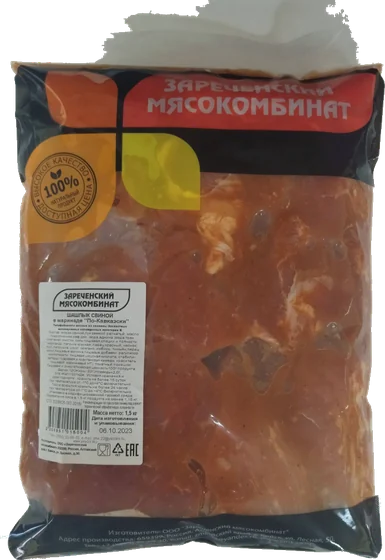
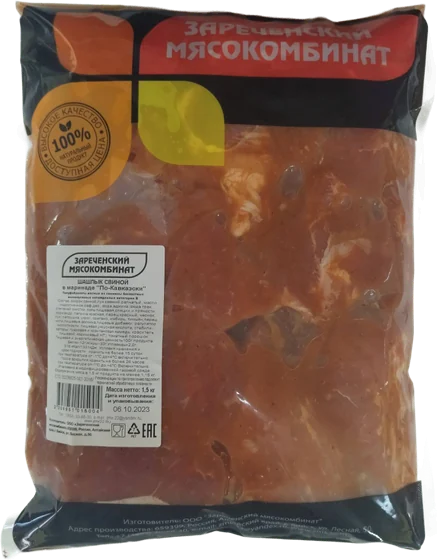
Показ: чистые вырезки 7 товаров Зареченского, «Подарки» грузятся быстрее
- Фарш, шашлык по-кавказски, стейк, рёбрышки, купаты, рулет, свинина рождественская перевырезаны нейросетью
  (Lucida / BiRefNet): ровный контур, плёнка целая, без серых пятен и белых зубцов
- «Подарки»: в плитках первого экрана маленькие копии картинок (img/thumbs) вместо полных 800–1400 px,
  у главного фото Алтая размытое превью, пока оно грузится

diff --git a/src/entities/partner/model/partners.data.js b/src/entities/partner/model/partners.data.js
@@ -4,7 +4,7 @@
 /** @type {import("./types").Partner[]} */
 export const PARTNERS = [
   {"slug": "salnikov", "title": "Сальников", "company": "Компания «Сальников»", "logos": [{"src": "/img/partners/logos/salnikov-1.svg", "w": 502, "h": 196}], "about": ["Компания «Сальников» больше 20 лет делает замороженные полуфабрикаты в Сибири и на Алтае. Главное для неё — высокое качество, вкус и удобство приготовления.", "«Классические мини» и «Классические стандарт» — пельмени категории А из говядины и свинины. «МЯСшарики» — маленькие пельмени с нежным сливочным вкусом, их любят и взрослые, и дети. «Домашние» сделаны по ГОСТу, в них много сочной начинки из натурального мяса."], "facts": [{"value": "20+", "label": "лет на рынке Сибири и Алтая"}], "site": "https://pelmeni-salnikov.ru/catalog", "hero": "93996", "products": [{"key": "93995", "title": "Пельмени «МЯСшарики»", "weight": "900 г", "img": {"src": "/img/partners/salnikov/93995.webp", "w": 452, "h": 560}, "isNew": false, "photo": false}, {"key": "100509509", "title": "Пельмени «Классические Standart»", "weight": "800 г", "img": {"src": "/img/partners/salnikov/100509509.webp", "w": 372, "h": 560}, "isNew": false, "photo": false}, {"key": "93996", "title": "Пельмени «Домашние» по ГОСТу", "weight": "800 г", "img": {"src": "/img/partners/salnikov/93996.webp", "w": 303, "h": 450}, "isNew": false, "photo": false}, {"key": "100362041", "title": "Пельмени «Классические mini»", "weight": "800 г", "img": {"src": "/img/partners/salnikov/100362041.webp", "w": 371, "h": 560}, "isNew": false, "photo": false}]},
-  {"slug": "zarechensky", "title": "Зареченский мясокомбинат", "company": "ООО «Зареченский мясокомбинат»", "logos": [{"src": "/img/partners/logos/zarechensky-1.svg", "w": 325, "h": 101}], "about": ["«Зареченский мясокомбинат» открылся в Бийске весной 2015 года. Здесь разделывают свинину и говядину и делают из них полуфабрикаты — до 20 тонн мяса в день. Мясо от костей отделяют вручную.", "Основа ассортимента — охлаждённое мясо, которое не замораживали. Сырьё берут только у сибирских хозяйств. Из него делают фарши, шашлык, маринованную свинину, купаты «Зареченские» и мясо в пакетах для запекания."], "facts": [{"value": "2015", "label": "год основания"}, {"value": "до 20 т", "label": "мяса в день"}, {"value": "Бийск", "label": "Алтайский край"}], "site": "https://zmk22.ru/", "hero": "54112", "products": [{"key": "56845", "title": "Фарш из свинины", "weight": "", "img": {"src": "/img/partners/zarechensky/56845.webp", "w": 439, "h": 560}, "isNew": false, "photo": false}, {"key": "51605", "title": "Фарш из свинины и говядины", "weight": "", "img": {"src": "/img/partners/zarechensky/51605.webp", "w": 437, "h": 560}, "isNew": false, "photo": false}, {"key": "38626", "title": "Шашлык из свинины", "weight": "около 1,5 кг, весовой", "img": {"src": "/img/partners/zarechensky/38626.webp", "w": 436, "h": 560}, "isNew": false, "photo": false}, {"key": "45827", "title": "Шашлык свиной по-кавказски в маринаде", "weight": "1,5 кг", "img": {"src": "/img/partners/zarechensky/45827.webp", "w": 385, "h": 560}, "isNew": false, "photo": false}, {"key": "54664", "title": "Стейк из свинины на косточке в маринаде", "weight": "около 1 кг, весовой", "img": {"src": "/img/partners/zarechensky/54664.webp", "w": 441, "h": 560}, "isNew": false, "photo": false}, {"key": "47367", "title": "Рёбрышки свиные в маринаде", "weight": "", "img": {"src": "/img/partners/zarechensky/47367.webp", "w": 444, "h": 494}, "isNew": false, "photo": false}, {"key": "30276", "title": "Рулька свиная маринованная", "weight": "", "img": {"src": "/img/partners/zarechensky/30276.webp", "w": 420, "h": 560}, "isNew": false, "photo": true}, {"key": "52986", "title": "Рябчик свиной маринованный", "weight": "", "img": {"src": "/img/partners/zarechensky/52986.webp", "w": 458, "h": 560}, "isNew": false, "photo": true}, {"key": "54112", "title": "Свинина в чесночном соусе", "weight": "1 кг", "img": {"src": "/img/partners/zarechensky/54112.webp", "w": 418, "h": 560}, "isNew": false, "photo": false}, {"key": "100549554", "title": "Купаты «Зареченские»", "weight": "0,75 кг или 1,5 кг", "img": {"src": "/img/partners/zarechensky/100549554.webp", "w": 428, "h": 560}, "isNew": false, "photo": false}, {"key": "100549555", "title": "Колбаски «Барбекю»", "weight": "0,75 кг или 1,5 кг", "img": {"src": "/img/partners/zarechensky/100549555.webp", "w": 441, "h": 560}, "isNew": false, "photo": false}, {"key": "100554231", "title": "Рулет из шейки с брусникой", "weight": "0,8 кг", "img": {"src": "/img/partners/zarechensky/100554231.webp", "w": 464, "h": 560}, "isNew": false, "photo": false}, {"key": "39762", "title": "Свинина рождественская с можжевеловыми ягодами", "weight": "", "img": {"src": "/img/partners/zarechensky/39762.webp", "w": 460, "h": 560}, "isNew": false, "photo": false}]},
+  {"slug": "zarechensky", "title": "Зареченский мясокомбинат", "company": "ООО «Зареченский мясокомбинат»", "logos": [{"src": "/img/partners/logos/zarechensky-1.svg", "w": 325, "h": 101}], "about": ["«Зареченский мясокомбинат» открылся в Бийске весной 2015 года. Здесь разделывают свинину и говядину и делают из них полуфабрикаты — до 20 тонн мяса в день. Мясо от костей отделяют вручную.", "Основа ассортимента — охлаждённое мясо, которое не замораживали. Сырьё берут только у сибирских хозяйств. Из него делают фарши, шашлык, маринованную свинину, купаты «Зареченские» и мясо в пакетах для запекания."], "facts": [{"value": "2015", "label": "год основания"}, {"value": "до 20 т", "label": "мяса в день"}, {"value": "Бийск", "label": "Алтайский край"}], "site": "https://zmk22.ru/", "hero": "54112", "products": [{"key": "56845", "title": "Фарш из свинины", "weight": "", "img": {"src": "/img/partners/zarechensky/56845.webp", "w": 439, "h": 560}, "isNew": false, "photo": false}, {"key": "51605", "title": "Фарш из свинины и говядины", "weight": "", "img": {"src": "/img/partners/zarechensky/51605.webp", "w": 432, "h": 560}, "isNew": false, "photo": false}, {"key": "38626", "title": "Шашлык из свинины", "weight": "около 1,5 кг, весовой", "img": {"src": "/img/partners/zarechensky/38626.webp", "w": 436, "h": 560}, "isNew": false, "photo": false}, {"key": "45827", "title": "Шашлык свиной по-кавказски в маринаде", "weight": "1,5 кг", "img": {"src": "/img/partners/zarechensky/45827.webp", "w": 437, "h": 560}, "isNew": false, "photo": false}, {"key": "54664", "title": "Стейк из свинины на косточке в маринаде", "weight": "около 1 кг, весовой", "img": {"src": "/img/partners/zarechensky/54664.webp", "w": 418, "h": 560}, "isNew": false, "photo": false}, {"key": "47367", "title": "Рёбрышки свиные в маринаде", "weight": "", "img": {"src": "/img/partners/zarechensky/47367.webp", "w": 462, "h": 560}, "isNew": false, "photo": false}, {"key": "30276", "title": "Рулька свиная маринованная", "weight": "", "img": {"src": "/img/partners/zarechensky/30276.webp", "w": 420, "h": 560}, "isNew": false, "photo": true}, {"key": "52986", "title": "Рябчик свиной маринованный", "weight": "", "img": {"src": "/img/partners/zarechensky/52986.webp", "w": 458, "h": 560}, "isNew": false, "photo": true}, {"key": "54112", "title": "Свинина в чесночном соусе", "weight": "1 кг", "img": {"src": "/img/partners/zarechensky/54112.webp", "w": 418, "h": 560}, "isNew": false, "photo": false}, {"key": "100549554", "title": "Купаты «Зареченские»", "weight": "0,75 кг или 1,5 кг", "img": {"src": "/img/partners/zarechensky/100549554.webp", "w": 443, "h": 560}, "isNew": false, "photo": false}, {"key": "100549555", "title": "Колбаски «Барбекю»", "weight": "0,75 кг или 1,5 кг", "img": {"src": "/img/partners/zarechensky/100549555.webp", "w": 441, "h": 560}, "isNew": false, "photo": false}, {"key": "100554231", "title": "Рулет из шейки с брусникой", "weight": "0,8 кг", "img": {"src": "/img/partners/zarechensky/100554231.webp", "w": 436, "h": 560}, "isNew": false, "photo": false}, {"key": "39762", "title": "Свинина рождественская с можжевеловыми ягодами", "weight": "", "img": {"src": "/img/partners/zarechensky/39762.webp", "w": 438, "h": 560}, "isNew": false, "photo": false}]},
   {"slug": "prostokvashino", "title": "Простоквашино", "company": "«Логика молока»", "logos": [{"src": "/img/partners/logos/prostokvashino-1.svg", "w": 115, "h": 110}], "about": ["В портфель компании «Логика молока» входят «Простоквашино», «Даниссимо», «Актибио», «Растишка», «Актимуно» и другие марки: молоко, йогурты, творожки и десерты для всей семьи на каждый день.", "«Простоквашино» — молочные продукты для завтрака, домашних блюд и повседневного рациона всей семьи."], "facts": [], "site": null, "hero": "83641", "products": [{"key": "83641", "title": "Молоко отборное 3,4–4,5 %", "weight": "930 мл", "img": {"src": "/img/partners/prostokvashino/83641.webp", "w": 199, "h": 560}, "isNew": false, "photo": false}, {"key": "83631", "title": "Кефир 2,5 %", "weight": "", "img": {"src": "/img/partners/prostokvashino/83631.webp", "w": 199, "h": 560}, "isNew": false, "photo": false}, {"key": "100581308", "title": "Ряженка 3,2 %", "weight": "900 г", "img": {"src": "/img/partners/prostokvashino/100581308.webp", "w": 218, "h": 560}, "isNew": false, "photo": false}, {"key": "100567827", "title": "Ряженка «Топлёное лакомство» со вкусом ванили 6 %", "weight": "150 г", "img": {"src": "/img/partners/prostokvashino/100567827.webp", "w": 560, "h": 345}, "isNew": false, "photo": false}, {"key": "100559134", "title": "Сметана 10 %", "weight": "300 г", "img": {"src": "/img/partners/prostokvashino/100559134.webp", "w": 438, "h": 560}, "isNew": false, "photo": false}, {"key": "100577842", "title": "Сметана безлактозная 15 %", "weight": "260 г", "img": {"src": "/img/partners/prostokvashino/100577842.webp", "w": 462, "h": 560}, "isNew": false, "photo": false}, {"key": "100559141", "title": "Творог 5 %", "weight": "200 г", "img": {"src": "/img/partners/prostokvashino/100559141.webp", "w": 378, "h": 560}, "isNew": false, "photo": false}, {"key": "100566689", "title": "Сливки питьевые 10 %", "weight": "205 г", "img": {"src": "/img/partners/prostokvashino/100566689.webp", "w": 227, "h": 560}, "isNew": false, "photo": false}]},
   {"slug": "spk", "title": "СПК", "company": "Сибирская продовольственная компания", "logos": [{"src": "/img/partners/logos/spk-1.svg", "w": 1279, "h": 1356}], "about": ["«Сибирская продовольственная компания» начиналась в 1994 году в Новосибирске с небольшого цеха. Сегодня у неё заводы в Новосибирске и Красноярске и филиал в Барнауле, а колбасы и деликатесы продаются в 49 регионах России.", "Под маркой СПК выпускают колбасы, сосиски, ветчину, мясные деликатесы и сыры на каждый день. «Высокий вкус» — линейка колбас и сыров, её делают с 2015 года. Ещё у компании есть сосиски «Большая SOSиска»."], "facts": [{"value": "1994", "label": "год основания"}, {"value": "до 300 т", "label": "продукции в сутки"}, {"value": "400+", "label": "наименований продукции"}], "site": "https://spkfood.ru/", "hero": "89205", "products": [{"key": "89205", "title": "Колбаса «Докторская» варёная", "weight": "470 г", "img": {"src": "/img/partners/spk/89205.webp", "w": 560, "h": 401}, "isNew": false, "photo": false}, {"key": "servelat-orehovyy", "title": "Сервелат «Ореховый» «Высокий вкус»", "weight": "250 г", "img": {"src": "/img/partners/spk/servelat-orehovyy.webp", "w": 560, "h": 332}, "isNew": false, "photo": false}, {"key": "servelat-balykovyy", "title": "Сервелат «Балыковый» «Высокий вкус»", "weight": "250 г", "img": {"src": "/img/partners/spk/servelat-balykovyy.webp", "w": 560, "h": 380}, "isNew": false, "photo": false}, {"key": "155713", "title": "Колбаса «Докторская» в обвязке", "weight": "500 г", "img": {"src": "/img/partners/spk/155713.webp", "w": 238, "h": 560}, "isNew": false, "photo": false}, {"key": "100568903", "title": "Колбаса «Краковская» полукопчёная", "weight": "390 г", "img": {"src": "/img/partners/spk/100568903.webp", "w": 560, "h": 355}, "isNew": false, "photo": false}, {"key": "100563164", "title": "Колбаса «Деревенская» с чесночком и сальцем", "weight": "390 г", "img": {"src": "/img/partners/spk/100563164.webp", "w": 294, "h": 560}, "isNew": false, "photo": false}, {"key": "79611", "title": "Колбаса «Новосибирская» сырокопчёная", "weight": "235 г", "img": {"src": "/img/partners/spk/79611.webp", "w": 111, "h": 560}, "isNew": false, "photo": false}, {"key": "107373", "title": "Сосиски «Большая SOSиска»", "weight": "340 г", "img": {"src": "/img/partners/spk/107373.webp", "w": 380, "h": 560}, "isNew": false, "photo": false}, {"key": "65152", "title": "Карбонад «Юбилейный» копчёно-варёный", "weight": "весовой", "img": {"src": "/img/partners/spk/65152.webp", "w": 514, "h": 560}, "isNew": false, "photo": false}, {"key": "42308", "title": "Ветчина куриная рубленая", "weight": "весовой", "img": {"src": "/img/partners/spk/42308.webp", "w": 560, "h": 238}, "isNew": false, "photo": false}]},
   {"slug": "pomidorka", "title": "Помидорка и 6 соток", "company": "Компания «Круз»", "logos": [{"src": "/img/partners/logos/pomidorka-1.webp", "w": 640, "h": 602}, {"src": "/img/partners/logos/pomidorka-2.webp", "w": 640, "h": 457}], "about": ["Марки «Помидорка» и «6 соток» принадлежат московской компании «Десан» (ООО «Круз»). Компания работает 30 лет, у двух её марок 50 видов продукции.", "«Помидорка» продаётся с 1998 года: это томатная паста в банках, стекле, тюбиках и пакетиках, кетчупы, соусы и лечо. Под маркой «6 соток» выпускают маринованные огурчики и корнишоны, зелёный горошек, сладкую кукурузу, фасоль и овощную икру."], "facts": [{"value": "1998", "label": "«Помидорка» в продаже"}, {"value": "30 лет", "label": "компании «Десан»"}, {"value": "50", "label": "видов продукции"}], "site": "https://pomidorka.ru/", "hero": "61308", "products": [{"key": "61308", "title": "Томатная паста «Помидорка»", "weight": "250 г", "img": {"src": "/img/partners/pomidorka/61308.webp", "w": 340, "h": 560}, "isNew": false, "photo": false}, {"key": "92150", "title": "Томатная паста «Помидорка»", "weight": "480 г", "img": {"src": "/img/partners/pomidorka/92150.webp", "w": 314, "h": 560}, "isNew": false, "photo": false}, {"key": "100576777", "title": "Кетчуп «Томатный» «Помидорка»", "weight": "350 г", "img": {"src": "/img/partners/pomidorka/100576777.webp", "w": 338, "h": 560}, "isNew": false, "photo": false}, {"key": "100579846", "title": "Кетчуп «Для шашлыка» «Помидорка»", "weight": "350 г", "img": {"src": "/img/partners/pomidorka/100579846.webp", "w": 344, "h": 560}, "isNew": false, "photo": false}, {"key": "100577438", "title": "Соус «Краснодарский» «Помидорка»", "weight": "480 мл", "img": {"src": "/img/partners/pomidorka/100577438.webp", "w": 318, "h": 560}, "isNew": false, "photo": false}, {"key": "pasta-chesnok", "title": "Томатная паста «Помидорка» с чесноком и травами", "weight": "250 мл", "img": {"src": "/img/partners/pomidorka/pasta-chesnok.webp", "w": 375, "h": 560}, "isNew": true, "photo": false}, {"key": "100577439", "title": "Огурчики хрустящие «6 соток»", "weight": "720 мл", "img": {"src": "/img/partners/pomidorka/100577439.webp", "w": 343, "h": 560}, "isNew": false, "photo": false}, {"key": "ogurcy-solenye", "title": "Огурцы солёные «6 соток»", "weight": "720 мл", "img": {"src": "/img/partners/pomidorka/ogurcy-solenye.webp", "w": 356, "h": 560}, "isNew": true, "photo": false}, {"key": "43078", "title": "Горошек зелёный «6 соток»", "weight": "425 г", "img": {"src": "/img/partners/pomidorka/43078.webp", "w": 477, "h": 560}, "isNew": false, "photo": false}, {"key": "43081", "title": "Кукуруза «6 соток»", "weight": "425 г", "img": {"src": "/img/partners/pomidorka/43081.webp", "w": 477, "h": 560}, "isNew": false, "photo": false}]},

diff --git a/src/pages/prizes/index.jsx b/src/pages/prizes/index.jsx
@@ -12,6 +12,9 @@ import { PageLayout } from '@/widgets/page-layout/PageLayout';
 import './PrizesPage.scss';
 
 const d = (ms) => ({ '--d': `${ms}ms` });
+// Плитки первого экрана — маленькие копии из img/thumbs (скрипты/миниатюры-призов.py, 08.11: страница грузилась долго).
+// Размытое превью Алтая 48×24 (оттуда же): видно сразу, пока грузится большое фото, — вместо белой карточки
[1 lines of base64/hex data omitted]
 
 export default function PrizesPage() {
   // Бирки недель висят на верёвке и чуть покачиваются, когда мимо проводят мышью
@@ -38,21 +41,21 @@ export default function PrizesPage() {
             </Link>
             <Link className="pfact" to="#weekly">
               <span className="pfact__pic pfact__pic--weekly" aria-hidden="true">
-                <img src="/img/prize-w2-airfryer-kitfort.webp" alt="" width={800} height={820} />
-                <img src="/img/prize-w4-coffee-delonghi.webp" alt="" width={581} height={820} />
-                <img src="/img/prize-w1-yandex-station.webp" alt="" width={802} height={683} />
-                <img src="/img/prize-w7-robot-dreame.webp" alt="" width={820} height={599} />
+                <img src="/img/thumbs/prize-w2-airfryer-kitfort.webp" alt="" width={429} height={440} />
+                <img src="/img/thumbs/prize-w4-coffee-delonghi.webp" alt="" width={312} height={440} />
+                <img src="/img/thumbs/prize-w1-yandex-station.webp" alt="" width={440} height={375} />
+                <img src="/img/thumbs/prize-w7-robot-dreame.webp" alt="" width={440} height={321} />
               </span>
               <span className="pfact__tag">5&nbsp;призов × 7&nbsp;недель</span>
               <span className="pfact__text"><CountUp value={35} /><small>еженедельных призов</small></span>
             </Link>
             <Link className="pfact" to="#main-prize">
               <span className="pfact__pic pfact__pic--final" aria-hidden="true">
-                <img src="/img/final-tv-xiaomi.webp" alt="" width={900} height={561} />
-                <img src="/img/final-dyson.webp" alt="" width={500} height={900} />
-                <img src="/img/final-ps5.webp" alt="" width={464} height={900} />
-                <span className="pfact__photo"><img src="/img/altai.webp" alt="" width={1400} height={700} /><i>Манжерок</i></span>
-                <img src="/img/final-iphone.webp" alt="" width={746} height={900} />
+                <img src="/img/thumbs/final-tv-xiaomi.webp" alt="" width={440} height={274} />
+                <img src="/img/thumbs/final-dyson.webp" alt="" width={244} height={440} />
+                <img src="/img/thumbs/final-ps5.webp" alt="" width={227} height={440} />
+                <span className="pfact__photo"><img src="/img/thumbs/altai.webp" alt="" width={400} height={300} /><i>Манжерок</i></span>
+                <img src="/img/thumbs/final-iphone.webp" alt="" width={365} height={440} />
               </span>
               <span className="pfact__text"><CountUp value={5} duration={800} /><small>суперпризов в&nbsp;финале</small></span>
             </Link>
@@ -73,7 +76,7 @@ export default function PrizesPage() {
             <img className="main-prize__branch" src="/img/branch.webp" alt="" width={200} height={214} loading="lazy" decoding="async" />
             <figure className="photo-card" style={{ margin: 0 }}>
               <span className="photo-card__tape" aria-hidden="true" />
-              <img src="/img/altai.webp" alt="Зимний Алтай: горы, река и ели" width={1400} height={700} />
+              <img src="/img/altai.webp" alt="Зимний Алтай: горы, река и ели" width={1400} height={700} decoding="async" style={{ background: `center / cover url(${ALTAI_BLUR})` }} />
               <figcaption>Алтай</figcaption>
             </figure>
             <span className="seal seal--red main-prize__badge"><span className="num">1</span><small>главный<br />приз</small></span>
